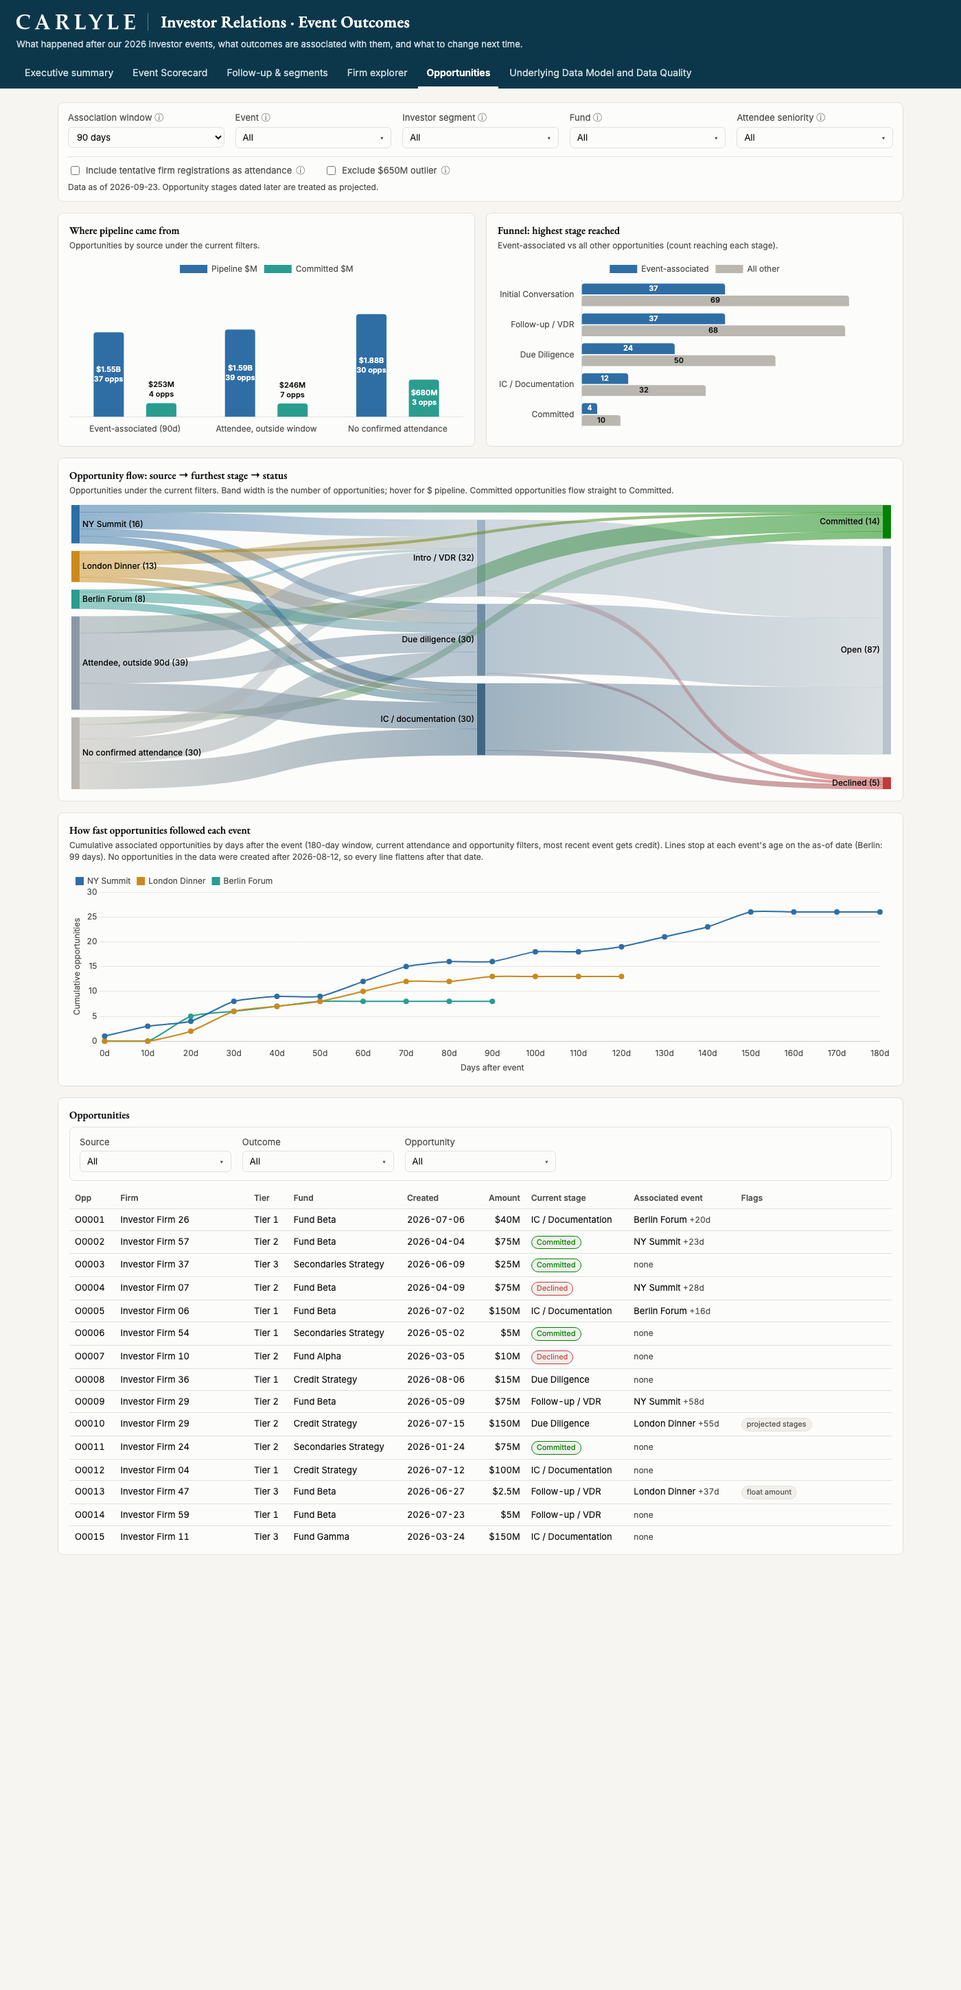
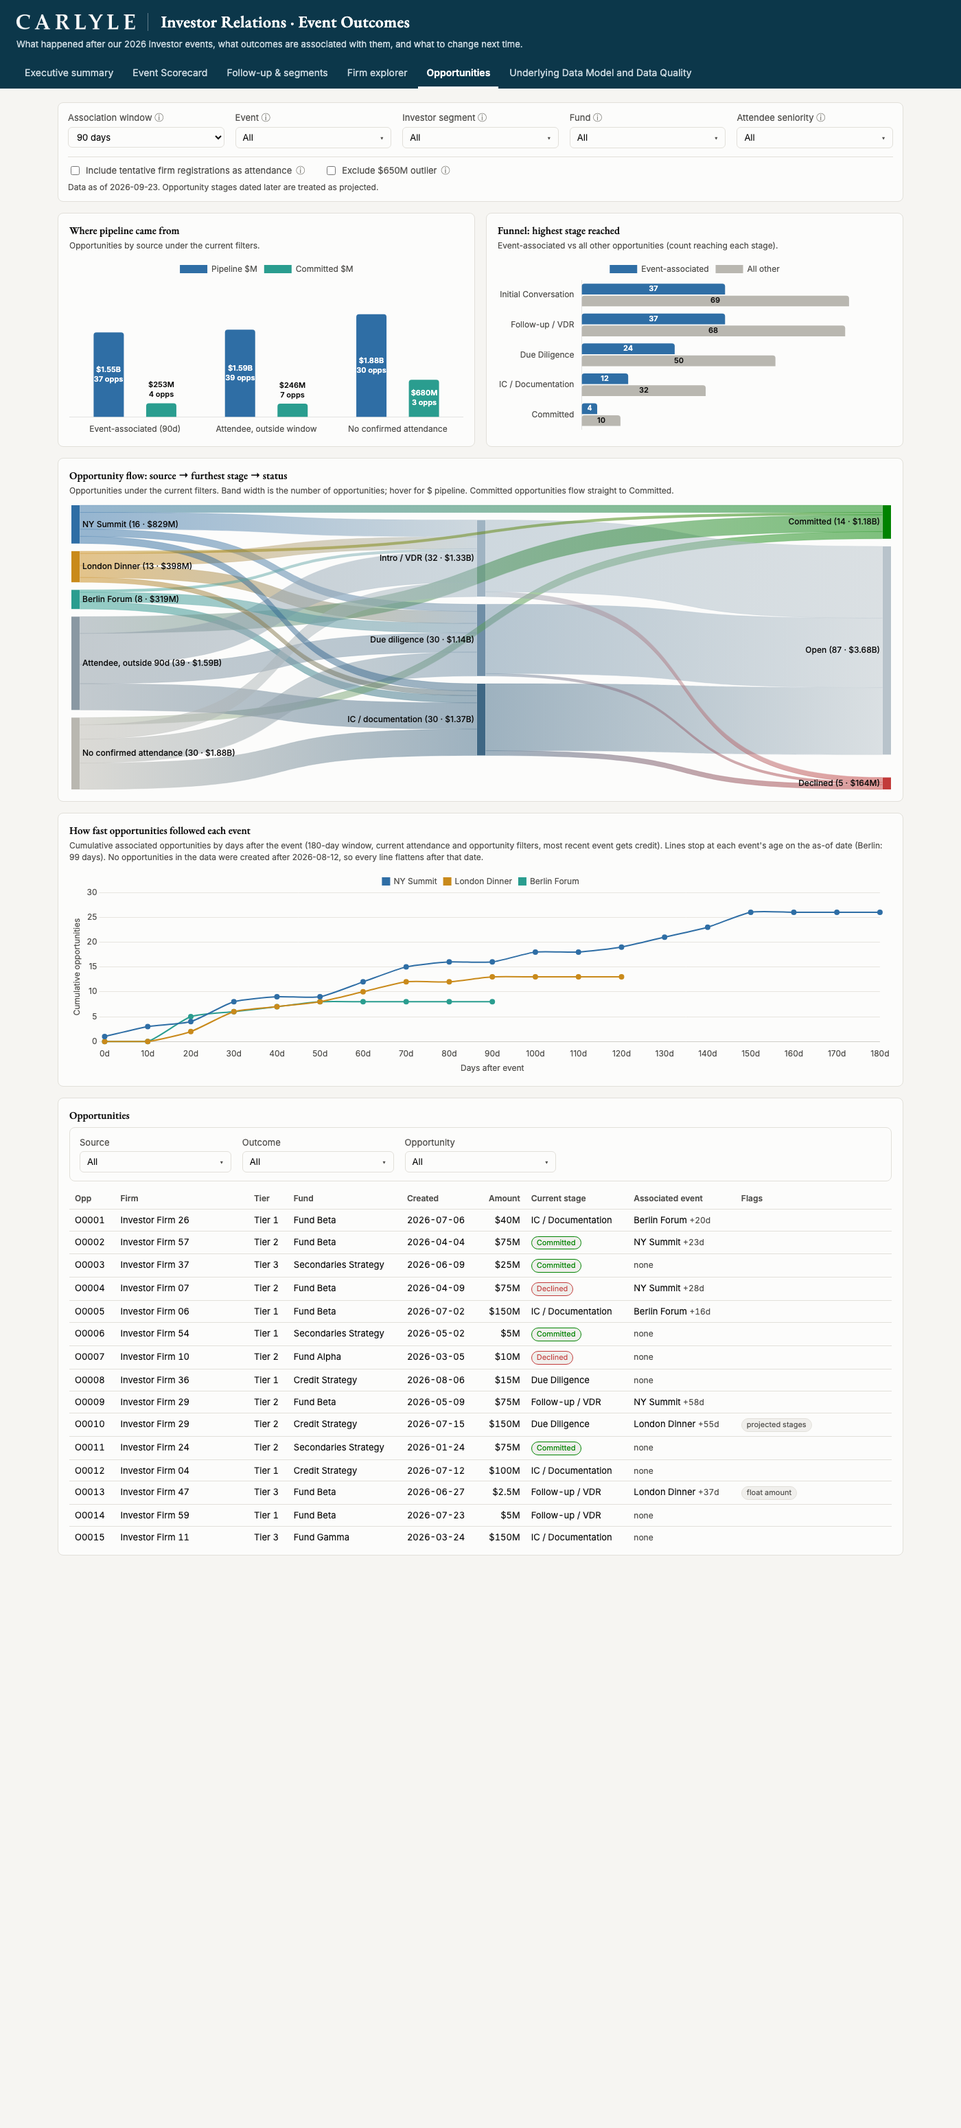
Firm explorer: pipeline dollars by stage over time with in-chart stage filter
Sankey node labels show opportunity count and dollars; centered legend on the
post-event cumulative chart.

Changed region(s): [[0.0, 0.0, 0.9521, 0.7759], [0.7679, 0.6517, 0.8293, 0.7138]]

diff --git a/docs/index.html b/docs/index.html
@@ -40,6 +40,7 @@ main { max-width: 1280px; margin: 0 auto; padding: 20px 24px 60px; }
 .ctl-selects select { width: 100%; }
 .ctl-selects input[type=search] { width: 100%; border: 1px solid var(--border); border-radius: 6px; padding: 5px 10px; font-size: 13px; background: var(--surface); color: var(--text); }
 .ms { position: relative; }
+.ctl-inline { display: flex; flex-direction: column; gap: 4px; color: var(--text-2); font-size: 13px; }
 .ms-search { width: 100%; margin-bottom: 4px; border: 1px solid var(--border); border-radius: 4px; padding: 5px 8px; font-size: 12px; background: var(--surface); color: var(--text); }
 .ms summary { list-style: none; cursor: pointer; border: 1px solid var(--border); border-radius: 6px; padding: 5px 28px 5px 10px; background: var(--surface); color: var(--text); font-size: 13px; white-space: nowrap; overflow: hidden; text-overflow: ellipsis; position: relative; }
 .ms summary::-webkit-details-marker { display: none; }
@@ -253,8 +254,13 @@ tr.sel { background: var(--surface-2); }
       </div>
     </div>
     <div class="card">
-      <h2 id="stageTitle">Opportunity stages over time</h2>
-      <p class="sub">Each line is one of the selected firm's opportunities, stepping up as it moves through the pipeline. Dashed vertical lines mark events the firm attended; dotted segments are stages dated after the as-of date (projected). Hover a point for details.</p>
+      <div style="display:flex;justify-content:space-between;align-items:flex-start;gap:16px;flex-wrap:wrap">
+        <div style="flex:1;min-width:260px">
+          <h2 id="stageTitle">Pipeline dollars by stage over time</h2>
+          <p class="sub">Dollars of the selected firm's opportunities sitting in each stage on each date. Dashed vertical lines mark events the firm attended; dotted segments are after the as-of date (projected stages). Hover a point for details.</p>
+        </div>
+        <label class="sel ctl-inline" style="width:220px"><span class="lbl">Stage</span><details class="ms" id="stageFilter"><summary>All</summary><div class="ms-panel"><div class="ms-opts"><label><input type="checkbox" value="1"> Initial Conversation</label><label><input type="checkbox" value="2"> Follow-up / VDR</label><label><input type="checkbox" value="3"> Due Diligence</label><label><input type="checkbox" value="4"> IC / Documentation</label><label><input type="checkbox" value="5"> Committed</label><label><input type="checkbox" value="0"> Declined</label></div></div></details></label>
+      </div>
       <div class="chart" style="height:320px"><canvas id="cStage"></canvas></div>
       <p class="note" id="stageEmpty" style="display:none">This firm has no opportunities.</p>
     </div>
@@ -745,9 +751,11 @@ function renderTimeline() {
   $('#timeline').innerHTML = items.map(r => `<li class="${r.is_projected ? 'proj' : ''}"><span class="date">${r.dt}</span><span class="kind"><span class="dot" style="background:var(${kindColor[r.kind]})"></span>${r.kind}</span><span>${esc(r.detail)}${r.is_projected ? ' (projected, after as-of date)' : ''}</span></li>`).join('') || '<li>No activity.</li>';
 }
 
-// Opportunity stage path for one firm: stepped lines, one per opportunity.
+// Pipeline dollars by stage over time for one firm: one stepped line per stage.
+// A deal sits in a stage from the date it reached it until its next stage; Committed and Declined persist.
 const STAGE_NAMES = ['Declined', 'Initial Conversation', 'Follow-up / VDR', 'Due Diligence', 'IC / Documentation', 'Committed'];
-const OPP_COLORS = () => [css('--s1'), css('--s2'), css('--s3'), '#7b5ea7', '#c2185b', '#5d7a2a'];
+const STAGE_ORDER = [1, 2, 3, 4, 5, 0];
+const STAGE_COLORS = () => ({1: '#9fb3c2', 2: '#6f8ea6', 3: '#3f6784', 4: '#1f3f5a', 5: css('--good'), 0: css('--bad')});
 const eventLines = {id: 'eventLines', afterDatasetsDraw(ch, a, o) {
   if (!o || !o.marks) return;
   const {ctx, chartArea: {top, bottom}, scales: {x}} = ch;
@@ -755,36 +763,48 @@ const eventLines = {id: 'eventLines', afterDatasetsDraw(ch, a, o) {
   o.marks.forEach((m, k) => { const px = x.getPixelForValue(m.t); if (px < x.left || px > x.right) return; const ly = top + 8 + (k % 2) * 13;
     ctx.beginPath(); ctx.moveTo(px, ly + 6); ctx.lineTo(px, bottom); ctx.stroke(); ctx.fillText(m.label, px, ly); });
   ctx.restore(); }};
+function stageDollarSeries(firmId) {
+  const t = d => new Date(d + 'T00:00:00Z').getTime();
+  const opps = D.mart_opportunity.filter(o => o.firm_id === firmId);
+  const hist = opps.map(o => ({o, h: D.mart_stage_history.filter(s => s.opportunity_id === o.opportunity_id)
+    .map(s => ({t: t(s.stage_date), rank: s.stage_rank, projected: s.is_future})).sort((a, b) => a.t - b.t)}));
+  const times = [...new Set(hist.flatMap(x => x.h.map(s => s.t)))].sort((a, b) => a - b);
+  const stageAt = (h, tt) => { let cur = null; h.forEach(s => { if (s.t <= tt) cur = s; }); return cur; };
+  const series = {};
+  STAGE_ORDER.forEach(r => (series[r] = times.map(tt => {
+    const inStage = hist.filter(x => { const c = stageAt(x.h, tt); return c && c.rank === r; });
+    return {x: tt, y: inStage.reduce((a, x) => a + x.o.amount_usd, 0), ids: inStage.map(x => x.o.opportunity_id)};
+  })));
+  return {times, series, n: opps.length};
+}
 function renderStageChart(f) {
-  $('#stageTitle').textContent = `Opportunity stages over time: ${f.firm_name}`;
-  const opps = D.mart_opportunity.filter(o => o.firm_id === f.firm_id).sort((a, b) => a.created_date.localeCompare(b.created_date));
-  $('#stageEmpty').style.display = opps.length ? 'none' : '';
-  $('#cStage').parentElement.style.display = opps.length ? '' : 'none';
-  if (!opps.length) { if (charts.cStage) charts.cStage.destroy(); delete charts.cStage; return; }
-  const t = d => new Date(d + 'T00:00:00Z').getTime(), colors = OPP_COLORS();
-  const asOf = t(D.meta.as_of_date);
-  const datasets = opps.map((o, i) => {
-    const h = D.mart_stage_history.filter(s => s.opportunity_id === o.opportunity_id).sort((a, b) => a.stage_date.localeCompare(b.stage_date));
-    const pts = h.map(s => ({x: t(s.stage_date), y: s.stage_rank, stage: STAGE_NAMES[s.stage_rank], date: s.stage_date, projected: s.is_future}));
-    return {label: `${o.opportunity_id} · ${o.fund_name} · ${fmtM(o.amount_usd)}`, data: pts, stepped: 'before', borderColor: colors[i % colors.length],
-      backgroundColor: colors[i % colors.length], borderWidth: 2, pointRadius: pts.map(p => (p.y === 0 ? 7 : 4)), pointStyle: pts.map(p => (p.y === 0 ? 'crossRot' : 'circle')),
-      segment: {borderDash: c => (c.p1.raw.projected ? [3, 3] : undefined)}};
-  });
-  const allT = datasets.flatMap(d => d.data.map(p => p.x));
+  $('#stageTitle').textContent = `Pipeline dollars by stage over time: ${f.firm_name}`;
+  const {times, series, n} = stageDollarSeries(f.firm_id);
+  $('#stageEmpty').style.display = n ? 'none' : '';
+  $('#cStage').parentElement.style.display = n ? '' : 'none';
+  if (!n) { if (charts.cStage) charts.cStage.destroy(); delete charts.cStage; return; }
+  const t = d => new Date(d + 'T00:00:00Z').getTime(), asOf = t(D.meta.as_of_date);
   const evs = D.mart_firm_event.filter(r => r.firm_id === f.firm_id).map(r => ({t: t(r.event_date), label: evShort(r.event_id) + (r.is_confirmed ? '' : ' (tent.)')}));
-  const lo = Math.min(...allT, ...evs.map(e => e.t)) - 10 * 864e5, hi = Math.max(...allT, ...evs.map(e => e.t), asOf) + 10 * 864e5;
+  const lo = Math.min(...times, ...evs.map(e => e.t)) - 10 * 864e5, hi = Math.max(...times, ...evs.map(e => e.t), asOf) + 10 * 864e5;
+  const picked = [...document.querySelectorAll('#stageFilter input:checked')].map(x => +x.value);
+  const show = STAGE_ORDER.filter(r => (!picked.length || picked.includes(r)) && series[r].some(p => p.y > 0));
+  const colors = STAGE_COLORS();
+  const datasets = show.map(r => {
+    const pts = [...series[r], {...series[r][series[r].length - 1], x: hi}];  // carry the last value to the right edge
+    return {label: STAGE_NAMES[r], data: pts, stepped: 'before', borderColor: colors[r], backgroundColor: colors[r], borderWidth: 2.5,
+      pointRadius: pts.map((p, i) => (i < pts.length - 1 && (i === 0 || p.y !== pts[i - 1].y) ? 4 : 0)), pointHoverRadius: 6,
+      segment: {borderDash: c => (c.p1.parsed.x > asOf ? [3, 3] : undefined)}};
+  });
   chart('cStage', {type: 'line', plugins: [eventLines], data: {datasets},
-    options: {interaction: {mode: 'nearest', intersect: true}, layout: {padding: {top: 18}},
+    options: {interaction: {mode: 'nearest', intersect: false, axis: 'x'}, layout: {padding: {top: 18}},
       plugins: {legend: {position: 'bottom', align: 'start', labels: {boxWidth: 10, boxHeight: 10}}, eventLines: {marks: evs},
-        tooltip: {callbacks: {title: c => c[0].dataset.label, label: c => `${c.raw.stage} · ${mdy(c.raw.date)}${c.raw.projected ? ' (projected)' : ''}`}}},
+        tooltip: {callbacks: {title: c => mdy(new Date(c[0].parsed.x).toISOString().slice(0, 10)) + (c[0].parsed.x > asOf ? ' (projected)' : ''),
+          label: c => `${c.dataset.label}: ${fmtM(c.raw.y)}${c.raw.ids.length ? ' (' + c.raw.ids.join(', ') + ')' : ''}`}}},
       scales: {x: {type: 'linear', min: lo, max: hi, grid: {display: false},
-          // one tick at the start of each month
           afterBuildTicks: ax => { const out = [], d = new Date(ax.min); d.setUTCDate(1); d.setUTCMonth(d.getUTCMonth() + 1);
             for (; d.getTime() <= ax.max; d.setUTCMonth(d.getUTCMonth() + 1)) out.push({value: d.getTime()}); ax.ticks = out; },
           ticks: {callback: v => new Date(v).toLocaleString('en-US', {month: 'short', timeZone: 'UTC'})}},
-        y: {min: -0.4, max: 5.4, grid: {color: css('--grid')}, border: {display: false},
-          afterBuildTicks: ax => { ax.ticks = [0, 1, 2, 3, 4, 5].map(value => ({value})); },
-          ticks: {callback: v => STAGE_NAMES[v] ?? ''}}}}});
+        y: {beginAtZero: true, grid: {color: css('--grid')}, border: {display: false}, ticks: {callback: v => fmtM(v)}}}}});
 }
 
 // ---------- opps ----------
@@ -812,11 +832,13 @@ function renderOpps() {
     'Intro / VDR': '#9fb3c2', 'Due diligence': '#6f8ea6', 'IC / documentation': '#3f6784',
     'Committed': css('--good'), 'Declined': css('--bad'), 'Open': '#b8c3cb'};
   const nodeTotals = {};
-  Object.values(flows).forEach(f => { nodeTotals[f.to] = (nodeTotals[f.to] || 0) + f.flow; if (!['Intro / VDR', 'Due diligence', 'IC / documentation'].includes(f.from)) nodeTotals[f.from] = (nodeTotals[f.from] || 0) + f.flow; });
+  const nodeUsd = {};
+  Object.values(flows).forEach(f => { nodeTotals[f.to] = (nodeTotals[f.to] || 0) + f.flow; nodeUsd[f.to] = (nodeUsd[f.to] || 0) + f.usd;
+    if (!['Intro / VDR', 'Due diligence', 'IC / documentation'].includes(f.from)) { nodeTotals[f.from] = (nodeTotals[f.from] || 0) + f.flow; nodeUsd[f.from] = (nodeUsd[f.from] || 0) + f.usd; } });
   chart('cSankey', {type: 'sankey', data: {datasets: [{
       data: Object.values(flows), colorFrom: c => nodeColor[c.dataset.data[c.dataIndex].from], colorTo: c => nodeColor[c.dataset.data[c.dataIndex].to],
       colorMode: 'gradient', alpha: 0.55, borderWidth: 0, nodeWidth: 12, size: 'max', color: css('--text'), font: {size: 12, weight: 500},
-      labels: Object.fromEntries(Object.keys(nodeColor).map(n => [n, `${n === 'No confirmed attendance' ? C.noneLabel : n} (${nodeTotals[n] || 0})`])),
+      labels: Object.fromEntries(Object.keys(nodeColor).map(n => [n, `${n === 'No confirmed attendance' ? C.noneLabel : n} (${nodeTotals[n] || 0} · ${fmtM(nodeUsd[n] || 0)})`])),
       priority: {'NY Summit': 1, 'London Dinner': 2, 'Berlin Forum': 3, [outside]: 4, 'No confirmed attendance': 5,
                  'Intro / VDR': 1, 'Due diligence': 2, 'IC / documentation': 3, 'Committed': 1, 'Open': 2, 'Declined': 3},
       column: {'Committed': 2, 'Open': 2, 'Declined': 2}}]},
@@ -830,7 +852,7 @@ function renderOpps() {
       return {label: evShort(e.event_id), borderColor: css(EV_COLOR[e.event_id]), backgroundColor: css(EV_COLOR[e.event_id]), borderWidth: 2, pointRadius: 3, tension: 0.2,
         data: days.map(d => d > age ? null : pts.filter(r => r.days_after_event <= d).reduce((a, r) => a + r.opps, 0))};
     })},
-    options: {plugins: {legend: {position: 'top', align: 'start', labels: {boxWidth: 10, boxHeight: 10}},
+    options: {plugins: {legend: {position: 'top', align: 'center', labels: {boxWidth: 10, boxHeight: 10}},
         tooltip: {callbacks: {title: c => `Day ${days[c[0].dataIndex]} after event`, label: c => `${c.dataset.label}: ${c.raw} opportunities`}}},
       scales: {x: {grid: {display: false}, title: {display: true, text: 'Days after event'}}, y: {grid: {color: css('--grid')}, border: {display: false}, beginAtZero: true, title: {display: true, text: 'Cumulative opportunities'}}}}});
   const stages = ['Initial Conversation', 'Follow-up / VDR', 'Due Diligence', 'IC / Documentation', 'Committed'];
@@ -936,6 +958,7 @@ msOptions('gFund', [...new Set(D.mart_opportunity.map(r => r.fund_name))].sort()
 document.addEventListener('click', e => document.querySelectorAll('details.ms[open]').forEach(d => { if (!d.contains(e.target)) d.open = false; }));
 $('#gOut').onchange = renderAll;
 ['oSource', 'oOutcome', 'oOpp'].forEach(id => msWire(id, renderOpps));
+msWire('stageFilter', () => { const f = D.mart_firm.find(r => r.firm_id === selFirm); if (f) renderStageChart(f); });
 msSet('oOutcome', ['Open', 'Committed', 'Declined']);
 if (startView) document.querySelector(`#nav button[data-view="${startView}"]`)?.click(); else renderAll();
 </script>

diff --git a/app/streamlit_app.py b/app/streamlit_app.py
@@ -428,35 +428,55 @@ with tab_x:
         t = tl[tl.firm_id == pick].copy()
         t["detail"] = t.detail + t.is_projected.map({True: " (projected, after as-of date)", False: ""})
         st.dataframe(t[["dt", "kind", "detail"]], width="stretch", hide_index=True)
-        chart_head(st, f"Opportunity stages over time: {info.firm_name}",
-                   "Each line is one of the firm's opportunities, stepping up as it moves through the pipeline. Dashed vertical lines mark "
-                   "events the firm attended; dotted segments are stages dated after the as-of date (projected).")
-        fo = opps[opps.firm_id == pick].sort_values("created_date")
+        hc = st.columns([3, 1])
+        chart_head(hc[0], f"Pipeline dollars by stage over time: {info.firm_name}",
+                   "Dollars of the firm's opportunities sitting in each stage on each date. Dashed vertical lines mark events the firm "
+                   "attended; dotted segments are after the as-of date (projected stages).")
+        stage_names = {1: "Initial Conversation", 2: "Follow-up / VDR", 3: "Due Diligence", 4: "IC / Documentation", 5: "Committed", 0: "Declined"}
+        pick_st = hc[1].multiselect("Stage", list(stage_names), format_func=stage_names.get, placeholder="All", key="fx_stage")
+        fo = opps[opps.firm_id == pick]
         if fo.empty:
             st.caption("This firm has no opportunities.")
         else:
-            stage_names = ["Declined", "Initial Conversation", "Follow-up / VDR", "Due Diligence", "IC / Documentation", "Committed"]
             sh = D["mart_stage_history"]
-            palette = [BLUE, ORANGE, AQUA, "#7b5ea7", "#c2185b", "#5d7a2a"]
+            sh = sh[sh.opportunity_id.isin(fo.opportunity_id)].assign(stage_date=lambda x: pd.to_datetime(x.stage_date)).sort_values("stage_date")
+            times = sorted(sh.stage_date.unique())
+            as_of = pd.Timestamp("2026-09-23")
+            ev_rows = fe[fe.firm_id == pick]
+            hi = max([pd.Timestamp(x) for x in times] + [pd.Timestamp(d) for d in ev_rows.event_date] + [as_of]) + pd.Timedelta(days=10)
+            amt = fo.set_index("opportunity_id").amount_usd
+
+            def stage_at(oid, tt):
+                h = sh[(sh.opportunity_id == oid) & (sh.stage_date <= tt)]
+                return None if h.empty else int(h.iloc[-1].stage_rank)
+
+            colors = {1: "#9fb3c2", 2: "#6f8ea6", 3: "#3f6784", 4: "#1f3f5a", 5: "#008300", 0: "#c23b3a"}
             fig = go.Figure()
-            for i, o in enumerate(fo.itertuples()):
-                h = sh[sh.opportunity_id == o.opportunity_id].sort_values("stage_date")
-                color = palette[i % len(palette)]
-                actual, proj = h[~h.is_future], h[h.is_future]
-                name = f"{o.opportunity_id} · {o.fund_name} · {fm(o.amount_usd)}"
-                fig.add_scatter(x=actual.stage_date, y=actual.stage_rank, mode="lines+markers", name=name, legendgroup=name, line=dict(color=color, width=2.5, shape="hv"),
-                                marker=dict(size=[12 if r == 0 else 8 for r in actual.stage_rank], symbol=["x" if r == 0 else "circle" for r in actual.stage_rank]),
-                                customdata=[stage_names[r] for r in actual.stage_rank], hovertemplate="%{customdata} · %{x|%m-%d-%Y}<extra>" + o.opportunity_id + "</extra>")
-                if len(proj):
-                    bridge = pd.concat([actual.tail(1), proj])
-                    fig.add_scatter(x=bridge.stage_date, y=bridge.stage_rank, mode="lines+markers", name=name + " (projected)", legendgroup=name, showlegend=False,
-                                    line=dict(color=color, width=2, dash="dot", shape="hv"), marker=dict(size=7, color=color),
-                                    customdata=[stage_names[r] for r in bridge.stage_rank], hovertemplate="%{customdata} · %{x|%m-%d-%Y} (projected)<extra>" + o.opportunity_id + "</extra>")
-            for k, r in enumerate(fe[fe.firm_id == pick].itertuples()):
+            for r in [1, 2, 3, 4, 5, 0]:
+                if pick_st and r not in pick_st:
+                    continue
+                ys, ids = [], []
+                for tt in times:
+                    inn = [o for o in fo.opportunity_id if stage_at(o, tt) == r]
+                    ys.append(float(amt[inn].sum())); ids.append(", ".join(inn))
+                if not any(ys):
+                    continue
+                xs = list(times) + [hi]
+                ys, ids = ys + [ys[-1]], ids + [ids[-1]]
+                actual = [i for i, x in enumerate(xs) if pd.Timestamp(x) <= as_of]
+                split = (actual[-1] + 1) if actual else 0
+                seg = [(xs[:split + 1], ys[:split + 1], ids[:split + 1], "solid", True), (xs[split:], ys[split:], ids[split:], "dot", False)]
+                for sx, sy, sid, dash, legend in seg:
+                    if len(sx) < 2 and dash == "dot":
+                        continue
+                    fig.add_scatter(x=sx, y=sy, mode="lines+markers", name=stage_names[r], legendgroup=str(r), showlegend=legend,
+                                    line=dict(color=colors[r], width=2.5, shape="hv", dash=dash), marker=dict(size=6),
+                                    customdata=sid, hovertemplate=stage_names[r] + ": %{y:$,.0f} · %{x|%m-%d-%Y}<br>%{customdata}<extra></extra>")
+            for k, r in enumerate(ev_rows.itertuples()):
                 fig.add_vline(x=pd.Timestamp(r.event_date).value / 1e6, line=dict(color="#8a949c", dash="dash", width=1))
                 fig.add_annotation(x=r.event_date, y=1.02 + 0.07 * (k % 2), yref="paper", yanchor="bottom", showarrow=False,
                                    text=EV_SHORT[r.event_id] + ("" if r.is_confirmed else " (tent.)"), font=dict(size=11, color="#5b6570"))
-            fig.update_yaxes(tickvals=list(range(6)), ticktext=stage_names, range=[-0.4, 5.4], gridcolor="#e6eaed", zeroline=False)
+            fig.update_yaxes(tickprefix="$", gridcolor="#e6eaed", zeroline=False, rangemode="tozero")
             fig.update_xaxes(showgrid=False, tickformat="%b")
             fig.update_layout(height=380, margin=dict(l=10, r=10, t=50, b=10), plot_bgcolor="rgba(0,0,0,0)", hovermode="closest",
                               legend=dict(orientation="h", y=-0.15, x=0), font=dict(family="Inter, system-ui, sans-serif", color="#3b4450"))
@@ -502,6 +522,7 @@ with tab_p:
         h = hex_.lstrip("#"); return f"rgba({int(h[0:2], 16)},{int(h[2:4], 16)},{int(h[4:6], 16)},{a})"
     names = [n for n in names if any(n in k for k in flows)]
     totals = {n: sum(v[0] for (x, y), v in flows.items() if y == n) or sum(v[0] for (x, y), v in flows.items() if x == n) for n in names}
+    usd = {n: sum(v[1] for (x, y), v in flows.items() if y == n) or sum(v[1] for (x, y), v in flows.items() if x == n) for n in names}
     order0 = ["NY Summit", "London Dinner", "Berlin Forum", outside, NONE_LABEL]
     order1, order2 = ["Intro / VDR", "Due diligence", "IC / documentation"], ["Committed", "Open", "Declined"]
     def spread(group):
@@ -511,7 +532,7 @@ with tab_p:
     ypos = spread(order0) | spread(order1) | spread(order2)
     fig = go.Figure(go.Sankey(
         arrangement="fixed",
-        node=dict(label=[f"{n} ({totals[n]})" for n in names], color=[node_color[n] for n in names], pad=18, thickness=14, line=dict(width=0),
+        node=dict(label=[f"{n} ({totals[n]} · {fm(usd[n])})" for n in names], color=[node_color[n] for n in names], pad=18, thickness=14, line=dict(width=0),
                   x=[col[n] for n in names], y=[ypos[n] for n in names],
                   hovertemplate="%{label}: %{value} opportunities<extra></extra>"),
         link=dict(source=[names.index(a) for a, b in flows], target=[names.index(b) for a, b in flows],
@@ -533,7 +554,7 @@ with tab_p:
                         line=dict(color=EV_COLOR[e], width=2.5, shape="hv"))
     fig.update_xaxes(title="Days after event", gridcolor="#f0f2f4")
     fig.update_yaxes(title="Cumulative opportunities")
-    st.plotly_chart(line_layout(fig, height=340), width="stretch")
+    st.plotly_chart(line_layout(fig, height=340).update_layout(legend=dict(orientation="h", y=1.12, x=0.5, xanchor="center")), width="stretch")
     c = st.columns(5)
     s1 = c[0].multiselect("Source", BUCKETS, placeholder="All", key="ot_source")
     s2 = c[1].multiselect("Outcome", ["Open", "Committed", "Declined"], placeholder="All", key="ot_outcome")
